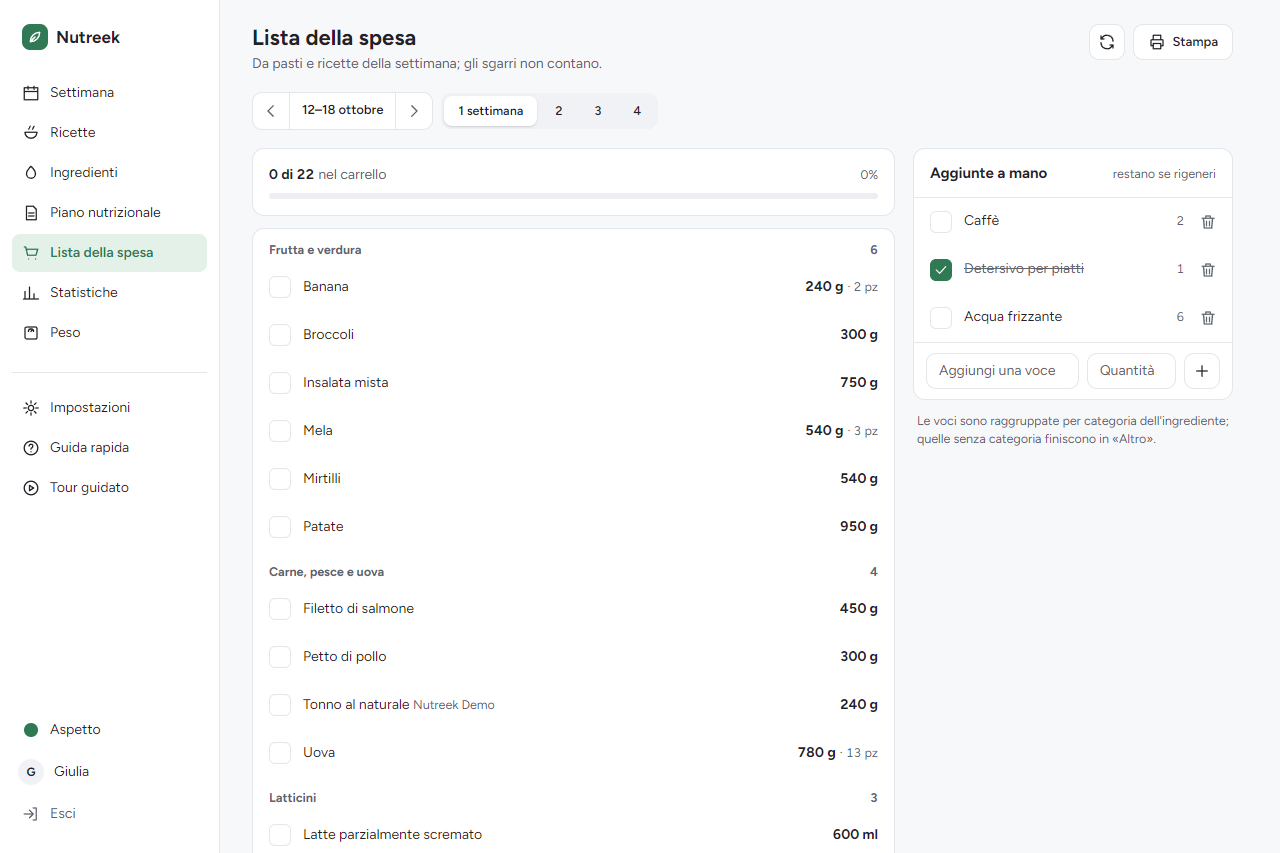
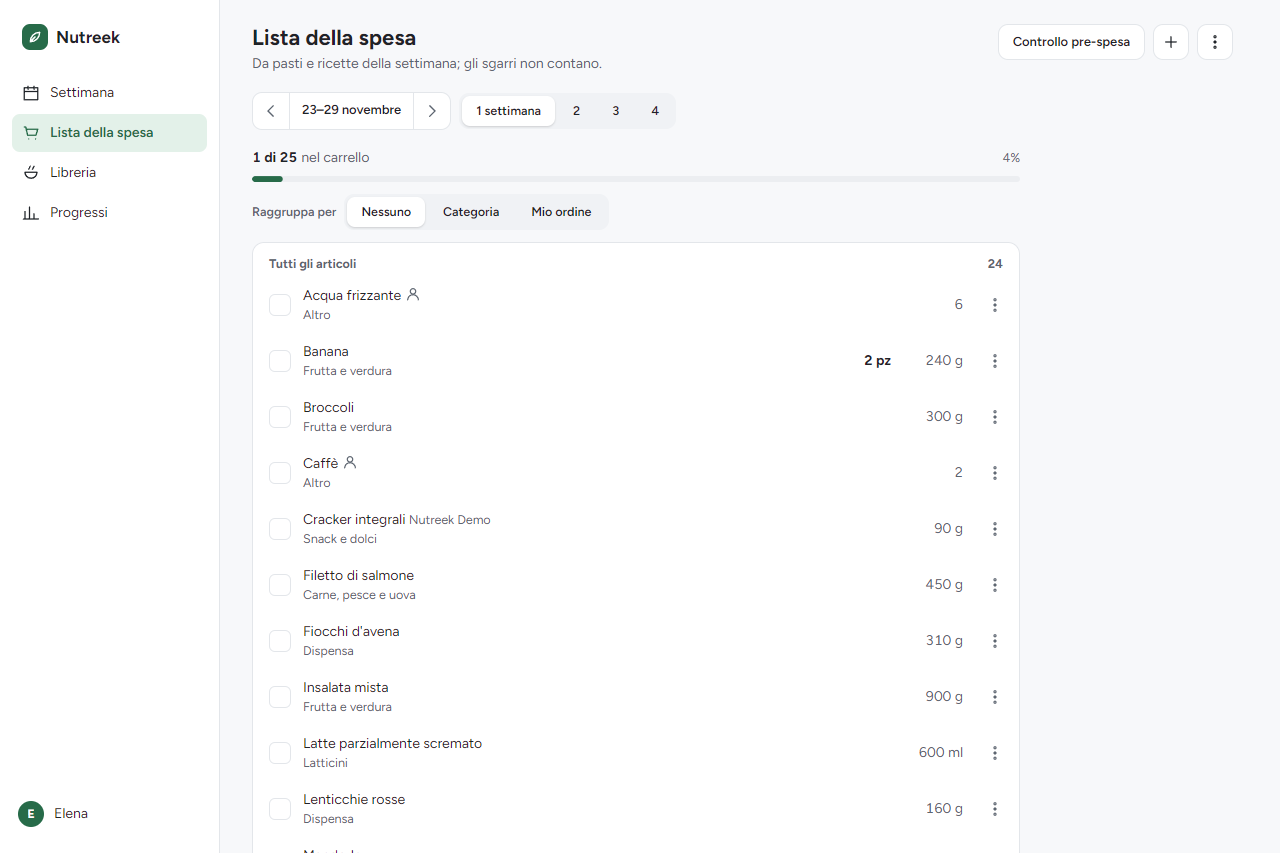
docs: README, changelog and screenshots for 3.0.0
The changelog gets the interface rebuild under Unreleased. Both READMEs
describe the Registro look, the new shopping list and Household,
Notifications and Stores. All screenshots are retaken from the demo, in both
languages, with the barcode scanner and the administration page.

Refs #322

diff --git a/CHANGELOG.md b/CHANGELOG.md
@@ -11,6 +11,10 @@ The entries up to 2.0.0 link to issues and pull requests written in Italian: the
 ## [Unreleased]
 
 ### Added
+- Activities of your own in the workout log: «Add your own activity» in the workout form gives it a name and a calorie rate. Each workout has a time of the day, and the kcal are estimated from your latest weigh-in and shown as an estimate. A new switch in Settings, «Workouts raise the goal» (off by default), adds the burned kcal to the day's goal (migration 0050) (#287, #289)
+- A setting to hide the recipe photos in the recipe list, in «Lists» in Settings. They are on by default, and a smaller photo on a phone leaves more room for the name (migration 0051) (#297, #299)
+- Rename and duplicate a variant in the nutrition plan, from its menu (#301)
+- A «You» page, opened from the avatar, with the profile and goals, Household, the password and your data, the preferences (appearance, meals and times, notifications, stores), help and the guided tour, and Administration for the owner (#283)
 - Integrated stores: Settings → Stores lists the stores that come with Nutreek and connects one with a click, with no address, token or secret key. The first is Conad: ingredient searches show its products (with nutrition, from its site) and the shopping list prices them. The plugin code is in the new `nutreek-store-plugins` repository and runs inside Nutreek. Store prices are those of the site's default store, so the list shows a notice that they are indicative, which can be closed for now or for good (migration 0049) (#277)
 - Stores: «Stores» in Settings connects a grocery store through a plugin, a small HTTP service you run or find that Nutreek asks for products, prices and availability (Nutreek ships none; the contract is in docs/store-plugins.md). The list of search sources puts Open Food Facts and the stores in the order you want, by drag or with arrows, and each can be turned off. An ingredient search shows the store's products after your own, with the store's name and price, and picking one makes an ingredient from it (its nutrition comes from the plugin) that stays linked to the product. The shopping list prices the ingredients that have a product, in whole packages, with an estimate of the total and a button that asks the store for today's prices and availability. Tokens are sealed in the database with the new `NUTREEK_SECRET_KEY`, and only public addresses are reached unless `NUTREEK_STORES_ALLOW_PRIVATE` is set; not in the demo (migration 0048) (#239)
 - Household: up to six other people can share your week from «Household» in Settings. Each has a name and a calorie goal and needs no login. Their quantities are yours scaled by the ratio of the goals (rounded to 5 g, half a piece, a quarter of a serving), and any row can be set by hand for one person, or a whole meal skipped for them. The day shows a kcal bar for each person and, on every row, a chip with what each of them eats; a tap opens the quantities of that row. The shopping list sums everyone and opens a «Who needs how much» detail under each row (migration 0047, see docs/household.md) (#238)
@@ -32,6 +36,8 @@ The entries up to 2.0.0 link to issues and pull requests written in Italian: the
 - Resting the mouse on a product photo in the ingredient picker, or on a recipe thumbnail in the recipe list, shows a larger preview next to it. Touch screens are unchanged (#223)
 
 ### Fixed
+- Contrast of the accent colour, the meal-time buttons and the day pill now meets WCAG AA (#281)
+- The update commands in the Administration page can be scrolled with the keyboard on a phone (#320)
 - Dragging a meal, or a row inside its meal, on a day of the week answered 403 and changed nothing: the lists posted without the CSRF token (#228)
 - A shopping item from the meals can be changed in pieces, grams or ml: the editor offers the units the ingredient has and converts the number when you switch (#246)
 - Items added by hand can be edited, name, quantity and unit, instead of being removed and added again (#247)
@@ -39,6 +45,16 @@ The entries up to 2.0.0 link to issues and pull requests written in Italian: the
 - Ticking a shopping item and adding one by hand keep the page where it was instead of jumping to the bottom: the list no longer lets the browser anchor the scroll to the row that moved, and adding an item swaps the list instead of reloading the page (#245)
 
 ### Changed
+- The interface is rebuilt in a new direction, «Registro» (#251, written down in DESIGN.md, #279): rows separated by lines instead of cards, one menu on each row, numbers aligned in columns, 44 px touch targets, and phone and desktop designed together. Every page was checked at three widths, light and dark, with no accessibility violations. The pages that changed most:
+  - Navigation: four destinations (Week, Shopping, Library, Progress) in the bottom bar and the sidebar (#283)
+  - Week: one «Add» sheet for a food, a recipe, a workout or water; each row has one menu (swap the ingredient, move to another meal, edit, delete); the meals are rows with their time (#285, #287, #291)
+  - Shopping list: rows instead of cards, a «+» that adds an item in a dialog, one menu on each row (#293)
+  - Library: the recipe and ingredient lists as rows with a photo column and, for ingredients, the macros; filters in a popover (#295)
+  - Nutrition plan: templates and plan on one page, the variants as closed rows that open on a tap, and a dialog to add a food to a variant (#301, #303)
+  - Progress: statistics as four numbers and charts, the weight page with a dialog for a new weigh-in (#305)
+  - Profile: sections as rows, and a save bar that shows when a field changes (#307)
+  - Settings: an index of pages (Appearance, Meal times, Lists, App, Account), switches that save when touched, and the meal times as rows with their time, edited in a dialog (#309, #311)
+  - Notifications, Household and the forms for a new recipe, ingredient and template follow the same layout; reminders and people open in a dialog, and the ingredient form keeps Save in view (#314, #316, #318)
 - The ingredient pickers (day, recipe, nutritionist plan) now list what you used before first when the search box is empty, in the same order as the search; the ingredients page keeps its alphabetical list (#266)
 - The ingredient search puts first what you used before: ingredients in your weekly plans and recipes (the most used first, then the most recent), then the ones you made, then the ones imported from OpenFoodFacts. An OpenFoodFacts product you already have as an ingredient shows once, even when the ingredient is further down the list. An imported ingredient now records whether it is still as imported, and its page says so (migration 0043) (#225)
 - The ingredient picker search takes every word of the query: «yogurt fage» and «fage yogurt» both find the Fage yogurt. The words may come from the name, the brand or, for your own ingredients, your category, and for OpenFoodFacts products also the package size («fage 150»). Migration 0042 rebuilds the OpenFoodFacts search index with the size (#224)

diff --git a/README.it.md b/README.it.md
@@ -49,12 +49,15 @@ L'interfaccia è in **italiano** e in **inglese**. Ogni utente sceglie la lingua
 
 | Area | Funzionalità |
 |------|-------------|
-| **Piani settimanali** | Un giorno alla volta con anello kcal e macro, pasti, acqua e allenamenti; macro per pasto/giorno/settimana, sgarri, copia da settimana precedente |
+| **Piani settimanali** | Un giorno alla volta con anello kcal e macro, pasti con un orario, acqua e allenamenti (anche attività tue); macro per pasto/giorno/settimana, sgarri, copia da settimana precedente, una riga si sposta in un altro pasto o cambia ingrediente con uno vicino |
 | **Ingredienti** | Ricerca locale FTS5 (<50 ms, offline) con foto dei prodotti, scanner del codice a barre nei picker, copia locale di OpenFoodFacts aggiornata ogni giorno, riconciliazione OFF |
 | **Ricette** | Creazione con ingredienti, import automatico da URL (schema.org/Recipe), con foto; quantità modificabili sul posto, in grammi o pezzi |
 | **Template** | Template settimanali riutilizzabili, applicazione one-click |
 | **Piano nutrizionista** | Varianti pasto, generazione automatica settimana con algoritmo greedy (target macro) |
-| **Lista spesa** | Generazione automatica dalla settimana selezionata |
+| **Lista spesa** | Una lista dalla settimana selezionata e da quello che aggiungi a mano, in ordine alfabetico, per categoria o nel tuo ordine; controlli cosa hai già prima di uscire; prezzi da un negozio collegato |
+| **Famiglia** | Fino a sei altre persone condividono la tua settimana, ognuna con il suo obiettivo di calorie e senza accesso; le quantità seguono l'obiettivo e la spesa somma tutti |
+| **Notifiche** | Promemoria inviati all'app installata, anche quando è chiusa: acqua, allenamento, pasti e i tuoi, con le ore di silenzio |
+| **Negozi** | Colleghi un negozio (Conad è già in Nutreek): i suoi prodotti compaiono nella ricerca degli ingredienti e la lista della spesa li prezza |
 | **Peso & idratazione** | Tracciamento giornaliero, grafici trend |
 | **TDEE adattivo** | Calcolo TDEE da trend peso/intake, suggerimento automatico |
 | **Allenamenti** | Log allenamenti con calorie bruciate, dashboard settimanale |
@@ -62,7 +65,7 @@ L'interfaccia è in **italiano** e in **inglese**. Ogni utente sceglie la lingua
 | **REST API v1** | Bearer token, endpoint per settimana, ingredienti, peso, idratazione, allenamenti |
 | **Admin panel** | Feature flags, gestione utenti, sottoscrizioni premium (owner-only) |
 | **Premium gating** | Middleware `requireFeature`, cache 60s, badge UI, redirect `/upgrade` |
-| **Aspetto** | Stile «Sereno»: modalità chiaro / scuro / come il sistema × colore bosco / mare / tramonto / grafite; sidebar su desktop, barra in basso sul telefono; tour guidato |
+| **Aspetto** | Stile «Registro»: righe e linee al posto dei riquadri, un solo menu per riga, interruttori che salvano appena li tocchi; modalità chiaro / scuro / come il sistema × colore bosco / mare / tramonto / grafite; sidebar su desktop, sul telefono una barra in basso con quattro voci; tour guidato |
 | **Lingue** | Italiano e inglese, per utente o dal browser; traduzioni della comunità benvenute, segnate «beta» finché non sono complete ([guida](docs/translating.md)) |
 | **App sul telefono** | Installabile (manifest e icone nel colore scelto, service worker per i file statici); fotocamera e installazione richiedono https |
 
@@ -74,7 +77,7 @@ I dati della demo, in italiano. Lo stesso aspetto in chiaro e in scuro, su deskt
 
 ### La settimana
 
-Un giorno alla volta: le schede dei giorni con le kcal, i pasti con i macro, e a lato l'anello delle calorie, l'acqua e gli allenamenti.
+Un giorno alla volta: le schede dei giorni con le kcal, i pasti a righe con i macro, e a lato l'anello delle calorie, l'acqua e gli allenamenti.
 
 <p align="center">
   <img src="docs/screenshots/settimana.png" width="800" alt="La settimana: schede dei giorni, pasti con kcal e macro, anello delle calorie, acqua e allenamento">
@@ -99,21 +102,21 @@ Ricette con kcal e macro per porzione; il piano nutrizionale con le varianti di 
 
 <p align="center">
   <img src="docs/screenshots/ricette.png" width="400" alt="Elenco delle ricette con kcal e macro per porzione e i filtri">
-  <img src="docs/screenshots/piano-nutrizionale.png" width="400" alt="Piano nutrizionale con le varianti di colazione e pranzo">
+  <img src="docs/screenshots/piano-nutrizionale.png" width="400" alt="Piano nutrizionale con le varianti di ogni pasto a righe">
 </p>
 
 ### Lista della spesa e statistiche
 
-La spesa per reparto, con il carrello e la stampa in due colonne. Le statistiche con il fabbisogno stimato dal peso e da quanto hai mangiato.
+La spesa in un'unica lista, per categoria o nel tuo ordine, con la barra del carrello e la stampa in due colonne. Le statistiche con il fabbisogno stimato dal peso e da quanto hai mangiato.
 
 <p align="center">
-  <img src="docs/screenshots/spesa.png" width="400" alt="Lista della spesa raggruppata per reparto, con le voci aggiunte a mano">
+  <img src="docs/screenshots/spesa.png" width="400" alt="Lista della spesa con la barra del carrello, la scelta del raggruppamento e le voci in ordine alfabetico">
   <img src="docs/screenshots/statistiche-scuro.png" width="400" alt="Statistiche in modalità scura: sintesi, fabbisogno stimato, calorie e macro, peso">
 </p>
 
 ### Sul telefono
 
-Barra in basso con le sezioni di tutti i giorni; si installa come app da Impostazioni.
+Barra in basso con quattro voci (Settimana, Spesa, Libreria, Progressi); l'avatar in alto apre Tu, con il profilo, le preferenze e l'aiuto. Si installa come app da Impostazioni.
 
 <p align="center">
   <img src="docs/screenshots/telefono-settimana.png" width="200" alt="La settimana sul telefono">

diff --git a/README.md b/README.md
@@ -49,12 +49,15 @@ The interface is in **English** and **Italian**. Each user picks the language in
 
 | Area | What it does |
 |------|-------------|
-| **Weekly plans** | One day at a time with a calorie ring and macros, meals, water and workouts; macros per meal, day and week, cheat meals, copy from the previous week |
+| **Weekly plans** | One day at a time with a calorie ring and macros, meals with a time, water and workouts (your own activities too); macros per meal, day and week, cheat meals, copy from the previous week, move a row to another meal or swap its ingredient for a close one |
 | **Ingredients** | Local FTS5 search (<50 ms, offline) with product photos, a barcode scanner in every food picker, a local OpenFoodFacts copy that updates daily, OpenFoodFacts reconciliation |
 | **Recipes** | Built from ingredients, imported automatically from a URL (schema.org/Recipe), with a photo; quantities edited in place, in grams or pieces |
 | **Templates** | Reusable weekly templates, applied in one click |
 | **Nutrition plan** | Meal variants, automatic week generation with a greedy algorithm that aims at your macro targets |
-| **Shopping list** | Generated from the selected week, grouped by aisle |
+| **Shopping list** | One list from the selected week and what you add by hand, sorted by name, grouped by category or in your own order; check what you already have before you go; prices from a connected store |
+| **Household** | Up to six other people share your week, each with a calorie goal and no login; quantities scale to the goal and the shopping list adds everyone up |
+| **Notifications** | Reminders sent to the installed app, also when it is closed: water, training, meals and your own, with quiet hours |
+| **Stores** | Connect a grocery store (Conad comes with Nutreek): its products show in ingredient search and the shopping list prices them |
 | **Weight & hydration** | Daily tracking, trend charts |
 | **Adaptive TDEE** | Estimates your real energy needs from your weight and intake trend, and suggests new targets |
 | **Workouts** | Workout log with calories burned, weekly overview |
@@ -62,7 +65,7 @@ The interface is in **English** and **Italian**. Each user picks the language in
 | **REST API v1** | Bearer tokens; endpoints for the week, ingredients, weight, hydration and workouts |
 | **Admin panel** | Feature flags, user management, premium subscriptions (owner only) |
 | **Premium gating** | `requireFeature` middleware, 60 s cache, UI badges, redirect to `/upgrade` |
-| **Look** | The «Sereno» style: light / dark / follow the system × forest / sea / sunset / graphite colour; sidebar on desktop, bottom bar on the phone; guided tour |
+| **Look** | The «Registro» style: rows and rules instead of cards, one menu per row, switches that save when you touch them; light / dark / follow the system × forest / sea / sunset / graphite colour; sidebar on desktop, a bottom bar with four destinations on the phone; guided tour |
 | **Languages** | English and Italian, per user or from the browser; community translations welcome, marked beta until complete ([guide](docs/translating.md)) |
 | **On your phone** | Installable (manifest and icons in your chosen colour, a service worker for static files); the camera and installing need https |
 
@@ -74,7 +77,7 @@ The demo's data, in English. The same look in light and dark, on desktop and on 
 
 ### The week
 
-One day at a time: the day tabs with their calories, the meals with their macros, and beside them the calorie ring, water and workouts.
+One day at a time: the day tabs with their calories, the meals as rows with their macros, and beside them the calorie ring, water and workouts.
 
 <p align="center">
   <img src="docs/screenshots/en/week.png" width="800" alt="The week: day tabs, meals with calories and macros, calorie ring, water and workout">
@@ -99,21 +102,21 @@ Recipes with calories and macros per serving; the nutrition plan with the varian
 
 <p align="center">
   <img src="docs/screenshots/en/recipes.png" width="400" alt="Recipe list with calories and macros per serving, and filters">
-  <img src="docs/screenshots/en/nutrition-plan.png" width="400" alt="Nutrition plan with the variants of breakfast and lunch">
+  <img src="docs/screenshots/en/nutrition-plan.png" width="400" alt="Nutrition plan with the variants of each meal as rows">
 </p>
 
 ### Shopping list and statistics
 
-The shopping list by aisle, with a cart and a two-column print. Statistics with your energy needs estimated from your weight and what you ate.
+The shopping list as one list, grouped by category or in your own order, with a cart bar and a two-column print. Statistics with your energy needs estimated from your weight and what you ate.
 
 <p align="center">
-  <img src="docs/screenshots/en/shopping.png" width="400" alt="Shopping list grouped by aisle, with items added by hand">
+  <img src="docs/screenshots/en/shopping.png" width="400" alt="Shopping list with the cart bar, the grouping choice and the items sorted by name">
   <img src="docs/screenshots/en/stats-dark.png" width="400" alt="Statistics in dark mode: summary, estimated energy needs, calories and macros, weight">
 </p>
 
 ### On the phone
 
-A bottom bar with the everyday sections; it installs as an app from Settings.
+A bottom bar with four destinations (Week, Shopping, Library, Progress); the avatar at the top opens You, with the profile, the preferences and help. It installs as an app from Settings.
 
 <p align="center">
   <img src="docs/screenshots/en/phone-week.png" width="200" alt="The week on the phone">
